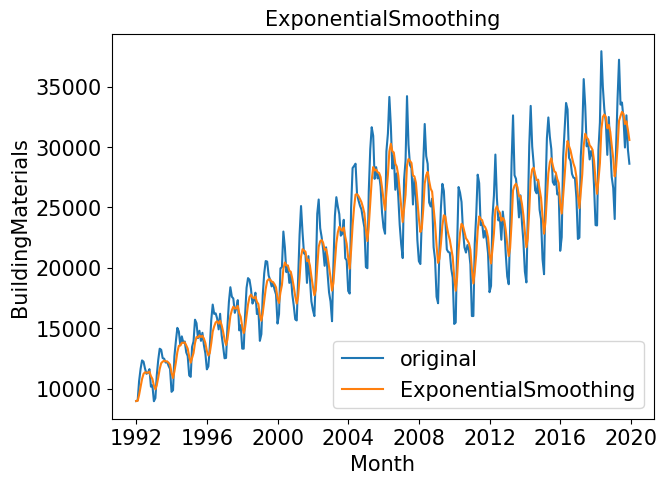
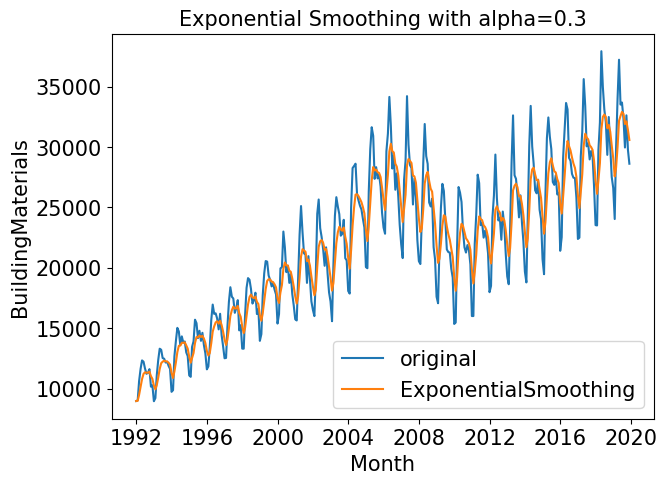
push book

Changed region(s): [[0.2699, 0.0, 0.8996, 0.062]]

diff --git a/docs/smoothing.html b/docs/smoothing.html
@@ -338,6 +338,17 @@ với các tham số <span class="math inline">\(k =6\)</span> và <span class="
 <span id="cb18-10"><a href="smoothing.html#cb18-10" tabindex="-1"></a><span class="dv">333</span> <span class="dv">2019</span><span class="op">-</span><span class="dv">10</span><span class="op">-</span><span class="dv">0</span><span class="er">1</span>              <span class="dv">32629</span>                  <span class="fl">32128.224396</span>                    <span class="fl">32128.224396</span>               <span class="fl">31913.606280</span></span>
 <span id="cb18-11"><a href="smoothing.html#cb18-11" tabindex="-1"></a><span class="dv">334</span> <span class="dv">2019</span><span class="op">-</span><span class="dv">11</span><span class="op">-</span><span class="dv">0</span><span class="er">1</span>              <span class="dv">29793</span>                  <span class="fl">31427.657077</span>                    <span class="fl">31427.657077</span>               <span class="fl">32128.224396</span></span>
 <span id="cb18-12"><a href="smoothing.html#cb18-12" tabindex="-1"></a><span class="dv">335</span> <span class="dv">2019</span><span class="op">-</span><span class="dv">12</span><span class="op">-</span><span class="dv">0</span><span class="er">1</span>              <span class="dv">28621</span>                  <span class="fl">30585.659954</span>                    <span class="fl">30585.659954</span>               <span class="fl">31427.657077</span></span></code></pre></div>
+<p>Biểu đồ so sánh giữa giá trị gốc và Exponential Smoothing</p>
+<div class="sourceCode" id="cb19"><pre class="sourceCode python"><code class="sourceCode python"><span id="cb19-1"><a href="smoothing.html#cb19-1" tabindex="-1"></a>fig4<span class="op">=</span> plt.figure(figsize<span class="op">=</span>(<span class="dv">7</span>,<span class="dv">5</span>))</span>
+<span id="cb19-2"><a href="smoothing.html#cb19-2" tabindex="-1"></a>sns.lineplot(x<span class="op">=</span><span class="st">&#39;Month&#39;</span>, y<span class="op">=</span><span class="st">&#39;BuildingMaterials&#39;</span>, data<span class="op">=</span>df, label<span class="op">=</span><span class="st">&#39;original&#39;</span>)</span>
+<span id="cb19-3"><a href="smoothing.html#cb19-3" tabindex="-1"></a>sns.lineplot(x<span class="op">=</span><span class="st">&#39;Month&#39;</span>, y<span class="op">=</span><span class="st">&#39;ExponentialSmoothing_PANDAS&#39;</span>, data<span class="op">=</span>df, label<span class="op">=</span><span class="st">&#39;ExponentialSmoothing&#39;</span>)</span>
+<span id="cb19-4"><a href="smoothing.html#cb19-4" tabindex="-1"></a>plt.xlabel(<span class="st">&#39;Month&#39;</span>,fontsize<span class="op">=</span><span class="dv">15</span>)</span>
+<span id="cb19-5"><a href="smoothing.html#cb19-5" tabindex="-1"></a>plt.xticks(fontsize<span class="op">=</span><span class="dv">15</span>)</span>
+<span id="cb19-6"><a href="smoothing.html#cb19-6" tabindex="-1"></a>plt.yticks(fontsize<span class="op">=</span><span class="dv">15</span>)</span>
+<span id="cb19-7"><a href="smoothing.html#cb19-7" tabindex="-1"></a>plt.ylabel(<span class="st">&#39;BuildingMaterials&#39;</span>,fontsize<span class="op">=</span><span class="dv">15</span>)</span>
+<span id="cb19-8"><a href="smoothing.html#cb19-8" tabindex="-1"></a>plt.legend(fontsize<span class="op">=</span><span class="dv">15</span>)</span>
+<span id="cb19-9"><a href="smoothing.html#cb19-9" tabindex="-1"></a>plt.title(<span class="st">&#39;Exponential Smoothing with alpha=0.3&#39;</span>, fontsize<span class="op">=</span><span class="dv">15</span>)</span></code></pre></div>
+<p><img src="../images/03/Exponential_Smoothing.png" /></p>
 
 </div>
 </div>
